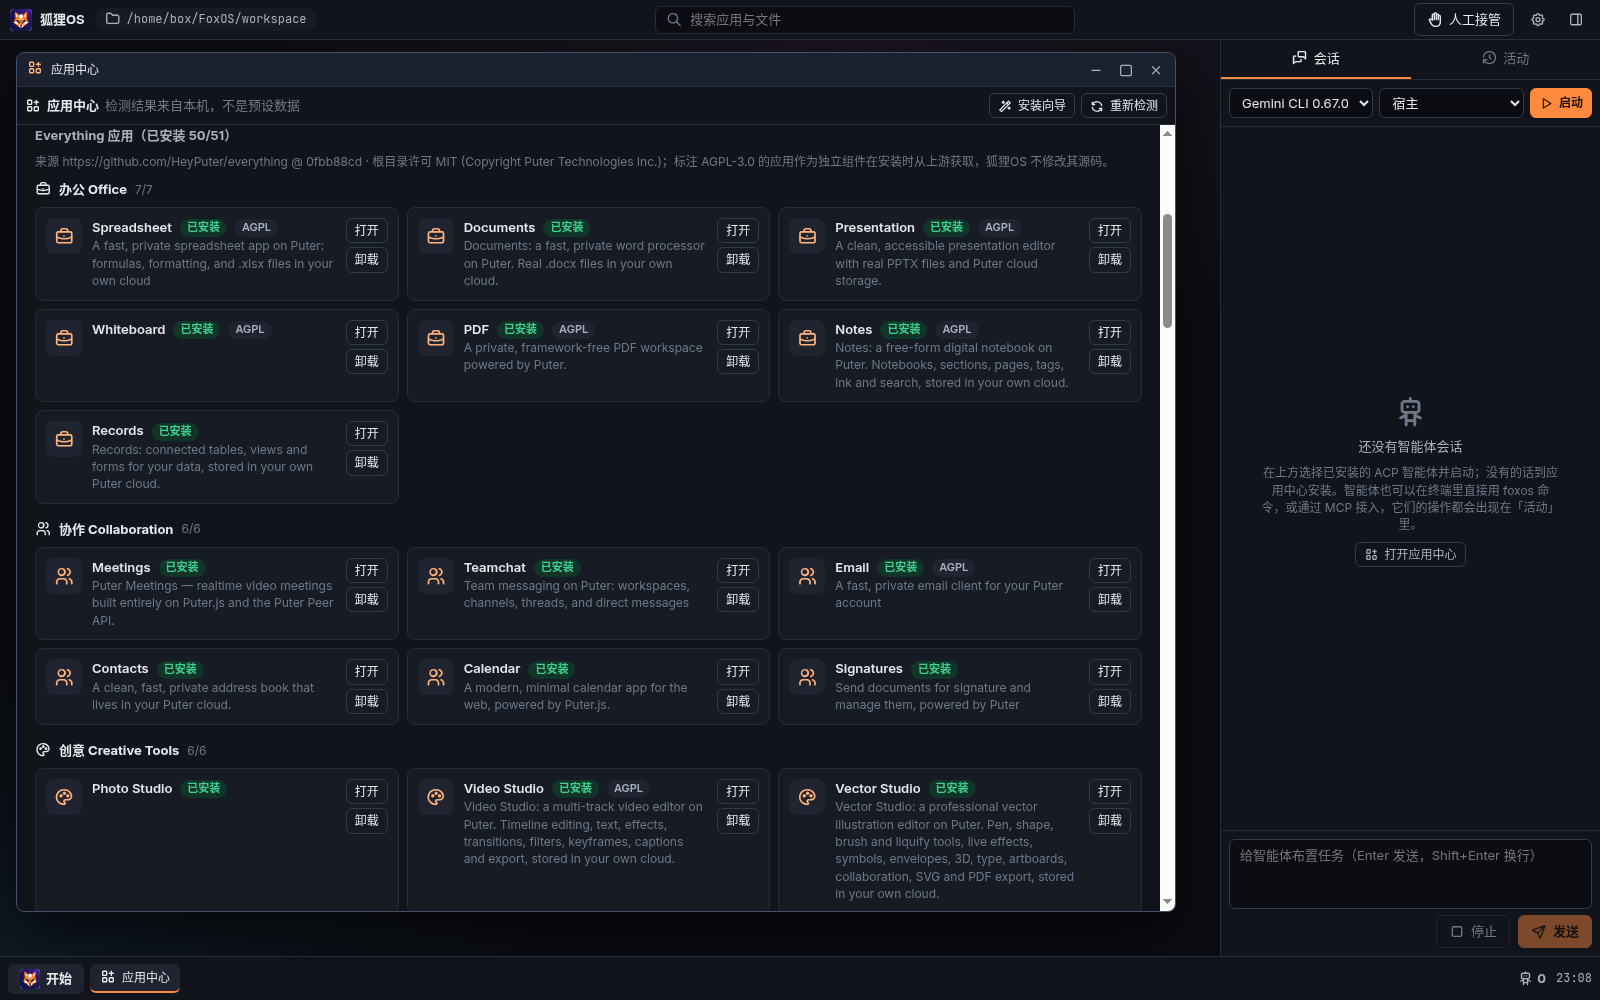
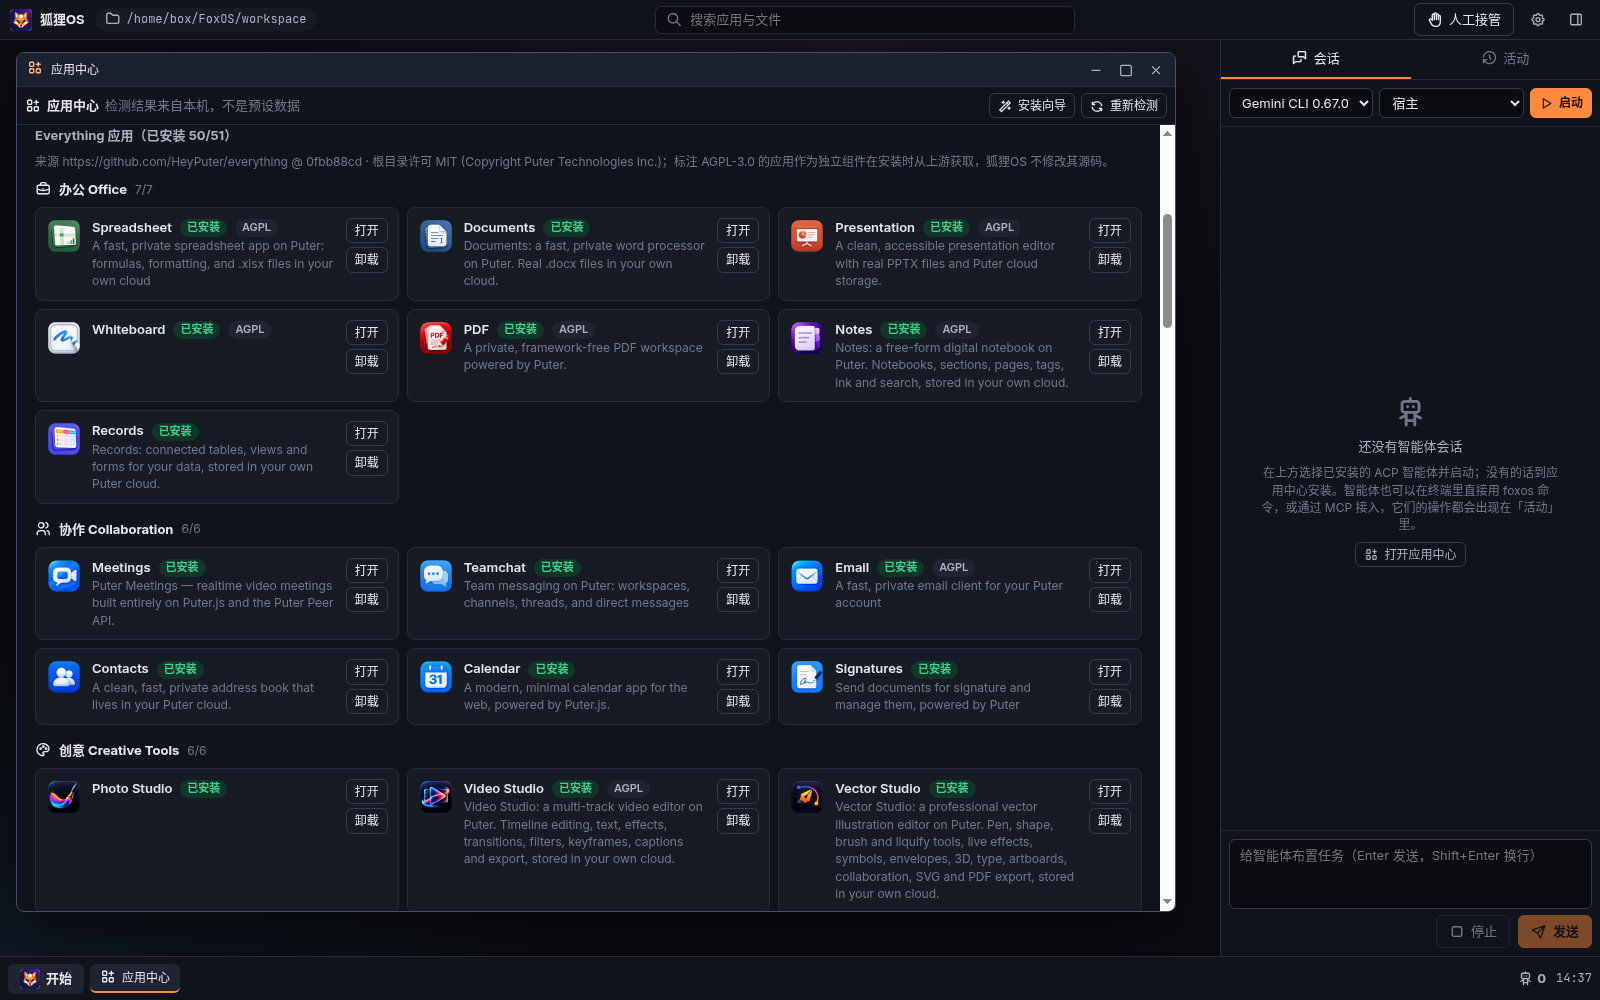
README：重拍桌面、开始菜单、应用中心截图（程序自带图标），新增程序图标说明；测试报告加入 US-53 图标覆盖

diff --git a/apps/desktop/scripts/screenshots.js b/apps/desktop/scripts/screenshots.js
@@ -46,14 +46,21 @@ async function main() {
   // 整个 X 屏幕（LibreOffice 原生窗口在 Electron 之外）
   const grab = (f) => { execFileSync('ffmpeg', ['-loglevel', 'error', '-y', '-f', 'x11grab', '-video_size', `${W}x${H}`, '-i', `${process.env.DISPLAY || ':99'}+0,0`, '-frames:v', '1', f]); return f; };
 
-  await shot('desktop', '桌面：开始菜单按 9 个分组列出已安装的 Everything 应用，右侧是智能体会话面板', async () => {
-    await page.click('#start'); await sleep(800);
+  // 等所有程序图标（<img>）加载完成
+  const iconsReady = () => page.waitForFunction(() => [...document.querySelectorAll('img.app-img')].every((i) => i.complete), null, { timeout: 30000 }).then(() => sleep(300));
+  await shot('desktop', '桌面：桌面快捷方式、窗口标题栏与任务栏显示各程序自带的图标（LibreOffice、系统终端、Code - OSS、Electron、Everything 上游图标），右侧是智能体会话面板', async () => {
+    await open('everything', { app: 'chess' }, { x: 190, y: 20, w: 720, h: 620 });
+    await open('everything', { app: 'documents' }, { x: 560, y: 150, w: 640, h: 600 });
+    await sleep(4000); await iconsReady();
   });
-  await shot('app-center', '应用中心：内置应用、LibreOffice、开发工具、ACP 智能体与 51 个 Everything 应用（9 个分组）', async () => {
+  await shot('start-menu', '开始菜单：内置程序与按 9 个分组列出的已安装 Everything 应用，每个程序显示其开源项目自带的图标', async () => {
+    await page.click('#start'); await sleep(800); await iconsReady();
+  });
+  await shot('app-center', '应用中心：51 个 Everything 应用（9 个分组）显示各自上游自带的图标；另有内置应用、LibreOffice、开发工具与 ACP 智能体', async () => {
     await open('appcenter', {}, { ...big, w: 1160 });
     await page.waitForSelector('.ev-group[data-group=games]', { timeout: 60000 });
     await page.evaluate(() => document.querySelector('.ev-section').scrollIntoView());
-    await sleep(600);
+    await sleep(600); await iconsReady();
   });
   await shot('setup-wizard', '首次运行安装向导：检测并在线安装 LibreOffice、Python 办公库、Node.js、git、环境与 Everything 分组', async () => {
     await open('setup', {}, { x: 180, y: 30, w: 900, h: 820 });

diff --git a/apps/desktop/e2e/icons.e2e.js b/apps/desktop/e2e/icons.e2e.js
@@ -8,7 +8,7 @@ const path = require('node:path');
 const { ROOT, launch, shot, tmpWorkspace } = require('./helpers');
 
 const FOXOS_HOME = process.env.FOXOS_TEST_HOME || process.env.FOXOS_HOME || fs.mkdtempSync('/tmp/foxos-e2e-home-');
-const OUT = path.join(ROOT, 'build', 'test-results', 'icons.json');
+const OUT = path.join(ROOT, 'docs', 'test-results', 'icons.json');
 
 // 等页面里所有 <img> 加载完成或失败（失败的会被替换成字体图标）
 const settle = (page, sel) => page.waitForFunction((s) => [...document.querySelectorAll(`${s} img.app-img`)].every((i) => i.complete), sel, { timeout: 30000 });
@@ -84,7 +84,7 @@ test('US-53 每个程序使用其开源项目自带的图标', async () => {
 
     const result = {
       everything: { total: 51, rendered: ev.filter((t) => t.ok).length, missing: evMissing, sources: report.everything.reduce((m, r) => { m[r.source || 'none'] = (m[r.source || 'none'] || 0) + 1; return m; }, {}) },
-      builtins: report.builtins.map((b) => ({ id: b.id, source: b.source, file: b.file, rendered: !!(desk.find((t) => t.key === b.id) || {}).ok })),
+      builtins: report.builtins.map((b) => ({ id: b.id, source: b.source, file: b.file && path.relative(ROOT, b.file).startsWith('..') ? b.file : b.file && path.relative(ROOT, b.file), rendered: !!(desk.find((t) => t.key === b.id) || {}).ok })),
       agents: { total: agentRows.length, withRegistryIcon: agents.filter((a) => a.icon).length, rendered: agentRows.filter((t) => t.ok).length, missing: agentRows.filter((t) => !t.ok).map((t) => t.key) },
       foxosOwn: own,
     };

diff --git a/scripts/gen_test_report.py b/scripts/gen_test_report.py
@@ -174,6 +174,15 @@ def main() -> int:
                  f"{('`' + x['cli'] + '`') if x['cli'] else '—'} | {x['ops']} | {x['bound']} | {x['executed']} | {'通过' if x['mcp'] else '—'} | "
                  f"{(x['note'] or '').replace('|', '/')[:160]} |")
     L.append("")
+    icons = load(TR / "icons.json", {})
+    if icons:
+        e, b, g = icons["everything"], icons["builtins"], icons["agents"]
+        SRC = {"installed": "已安装的上游组件", "bundled-mit": "随附（MIT）", "libreoffice": "本机 LibreOffice", "system-terminal": "系统终端", "vscode": "本机 VS Code", "code-oss": "Code - OSS（随附，MIT）", "electron": "Electron（随附）", None: "缺失，退回字体图标"}
+        L.append("## 程序图标覆盖（US-53）\n")
+        L.append(f"- Everything 应用：**{e['rendered']}/{e['total']}** 显示上游自带图标（来源：" + "，".join(f"{SRC.get(k if k != 'none' else None, k)} {v}" for k, v in e["sources"].items()) + f"）；缺失：{', '.join(e['missing']) or '无'}（AGPL 应用未安装时没有图标，安装后从上游组件读取）。")
+        L.append(f"- 内置程序：**{sum(1 for x in b if x['rendered'])}/{len(b)}** —— " + "，".join(f"{x['id']}：{SRC.get(x['source'], x['source'])}" for x in b) + "。")
+        L.append(f"- ACP 智能体：**{g['rendered']}/{g['total']}** 显示注册表 `icon`（{g['withRegistryIcon']} 个在注册表里有 icon）" + (f"；未加载：{', '.join(g['missing'])}" if g["missing"] else "") + "。")
+        L.append(f"- 狐狸OS 自己的程序保留狐狸OS 风格图标：{', '.join(icons.get('foxosOwn', []))}。\n")
     L.append("## 复现\n")
     L.append("```bash\npython3 -m venv .venv && .venv/bin/pip install -e 'packages/core[test]'\n(cd apps/desktop && npm ci)\n"
              "FOXOS_HOME=~/.local/share/FoxOS npm run test:all          # 全部\npython3 scripts/test_all.py --only e2e --e2e mcp,sandbox  # 只跑部分\n```\n")

diff --git a/README.md b/README.md
@@ -12,7 +12,7 @@
   <a href="README.en.md">English</a>
 </p>
 
-![狐狸OS 桌面](docs/screenshots/desktop.png)
+![狐狸OS 桌面：快捷方式、标题栏与任务栏显示各程序自带的图标](docs/screenshots/desktop.png)
 
 ## 狐狸OS 是什么
 
@@ -31,9 +31,10 @@
 
 | | |
 | --- | --- |
-| ![应用中心](docs/screenshots/app-center.png)<br>**应用中心**：内置应用、LibreOffice、开发工具、ACP 智能体与 51 个 Everything 应用（9 个分组） | ![安装向导](docs/screenshots/setup-wizard.png)<br>**首次运行安装向导**：检测并在线安装 LibreOffice、Python 办公库、Node.js、git、环境与 Everything 分组 |
-| ![终端](docs/screenshots/terminal.png)<br>**终端**：真实 PTY；`foxos` 命令直接读写工作空间里的表格、文档和环境 | ![文件管理器](docs/screenshots/files.png)<br>**文件管理器**：工作空间实时同步，CLI、MCP、智能体的修改立即出现 |
-| ![编辑器](docs/screenshots/editor.png)<br>**Monaco 编辑器**：语法高亮，保存到工作空间 | ![浏览器](docs/screenshots/browser.png)<br>**浏览器**：内置网页浏览器 |
+| ![开始菜单](docs/screenshots/start-menu.png)<br>**开始菜单**：内置程序与按 9 个分组列出的已安装 Everything 应用，每个程序显示其开源项目自带的图标 | ![应用中心](docs/screenshots/app-center.png)<br>**应用中心**：51 个 Everything 应用显示各自上游的图标；另有内置应用、LibreOffice、开发工具与 ACP 智能体 |
+| ![安装向导](docs/screenshots/setup-wizard.png)<br>**首次运行安装向导**：检测并在线安装 LibreOffice、Python 办公库、Node.js、git、环境与 Everything 分组 | ![终端](docs/screenshots/terminal.png)<br>**终端**：真实 PTY；`foxos` 命令直接读写工作空间里的表格、文档和环境 |
+| ![文件管理器](docs/screenshots/files.png)<br>**文件管理器**：工作空间实时同步，CLI、MCP、智能体的修改立即出现 | ![编辑器](docs/screenshots/editor.png)<br>**Monaco 编辑器**：语法高亮，保存到工作空间 |
+| ![浏览器](docs/screenshots/browser.png)<br>**浏览器**：内置网页浏览器 | |
 | ![LibreOffice Writer](docs/screenshots/libreoffice-writer.png)<br>**LibreOffice Writer**：打开由 `foxos docs` 生成的周报 .docx | ![LibreOffice Calc](docs/screenshots/libreoffice-calc.png)<br>**LibreOffice Calc**：`foxos sheets` 写入的公式与原生图表 |
 | ![Everything 表格](docs/screenshots/everything-spreadsheet.png)<br>**Everything · 表格**：打开工作空间里的 `2026年销售.xlsx` | ![Everything 文档](docs/screenshots/everything-documents.png)<br>**Everything · 文档**：打开 `项目周报.docx` |
 | ![Everything 白板](docs/screenshots/everything-whiteboard.png)<br>**Everything · 白板** | ![Everything CRM](docs/screenshots/everything-crm.png)<br>**Everything · CRM** |
@@ -45,7 +46,8 @@
 
 | 领域 | 内容 |
 | --- | --- |
-| 桌面 | 窗口管理（拖动、缩放、最大化、任务栏）、开始菜单、全局搜索（应用 + 工作空间文件）、会话恢复、线性图标（无 emoji） |
+| 桌面 | 窗口管理（拖动、缩放、最大化、任务栏）、开始菜单、全局搜索（应用 + 工作空间文件）、会话恢复；无 emoji |
+| 程序图标 | 每个程序显示它自己的开源项目自带的图标：Everything 应用用上游 `icon-128.png`（MIT 应用随附，AGPL 应用安装后从上游组件读取）、LibreOffice 用本机安装的图标、终端用系统终端图标、编辑器用 VS Code / Code - OSS 图标、浏览器用 Electron 图标、ACP 智能体用注册表 `icon` 字段；狐狸OS 自己的程序（文件、设置、环境、应用中心）保留狐狸OS 风格；线性字体图标只用于按钮等控件。来源与许可见 [third-party-icons/NOTICE.md](apps/desktop/src/third-party-icons/NOTICE.md) |
 | 内置应用 | 终端（node-pty / ConPTY）、文件管理器、Monaco 编辑器、浏览器、应用中心、设置、安装向导、环境 |
 | 办公 | `foxos sheets` / `docs` / `slides` 读写标准 .xlsx / .docx / .pptx（公式、原生图表、表格、备注），LibreOffice 原生窗口打开、求值与导出 |
 | Everything 应用 | 51 个开源应用（9 个分组），本机构建运行；每个应用有从界面实际遍历出的语义命令（`foxos <应用> <资源> <动作>`），见 [docs/everything-apps.md](docs/everything-apps.md) 与 [docs/operations/](docs/operations/) |
@@ -186,7 +188,7 @@ npm run test:all      # 仓库根目录：pytest + 桌面端到端测试（Playw
 ```
 
 - 测试不使用模拟：真实文件、真实 LibreOffice、真实 Electron、真实环境运行时、官方 MCP SDK 客户端
-- 最近一次全量运行（Linux）：139 个用例 133 通过、1 失败、4 跳过、1 个已知上游缺陷；31 个用户故事 28 通过；Everything 应用 50/51 本地启动、48/51 界面与 CLI 等价、51/51 MCP 调用成功。详见 [测试报告](docs/test-report.md)
+- 最近一次报告（Linux）：140 个用例 134 通过、1 失败、4 跳过、1 个已知上游缺陷；32 个用户故事 29 通过；Everything 应用 50/51 本地启动、49/51 界面与 CLI 等价、51/51 MCP 调用成功；程序图标 Everything 51/51、内置程序 6/6、ACP 智能体 45/45。详见 [测试报告](docs/test-report.md)
 - 用户故事与测试一一对应（US-编号），报告列出每个故事的通过 / 失败 / 跳过、51 个应用的覆盖与每个应用的操作覆盖：[docs/test-report.md](docs/test-report.md)
 - Windows 专用测试：命令行契约单元测试在 Linux 上运行；实机测试见 [docs/windows-test-guide.md](docs/windows-test-guide.md)
 

diff --git a/docs/test-report.md b/docs/test-report.md
@@ -2,7 +2,7 @@
 
 由 `npm run test:all`（[scripts/test_all.py](../scripts/test_all.py)）生成，不使用模拟：pytest 调用真实 CLI / 内核，桌面端到端测试用 Playwright 驱动真实的 Electron 桌面，MCP 测试使用官方 MCP SDK 作为客户端。
 
-- 时间：2026-11-11 00:44（UTC+8）　提交：`b38474c`　用时：15 分 10 秒
+- 时间：2026-11-11 14:39（UTC+8）　提交：`f40a775`
 - 环境：Linux 6.12.113+（x86_64），Python 3.13.5，Node v24.22.1，Landlock ABI 6
 - 未覆盖：Windows 与 macOS 实机（本报告在 Linux 上生成；Windows 代码路径另有 wine 下的测试，见 [sandbox.md](sandbox.md)、[windows-test-guide.md](windows-test-guide.md)）
 
@@ -10,10 +10,10 @@
 
 | | 通过 | 失败 | 跳过 | 已知上游缺陷 |
 | --- | --- | --- | --- | --- |
-| 测试用例（139） | 133 | 1 | 4 | 1 |
-| 用户故事（31） | 28 | 1 | 1 | 1 |
+| 测试用例（140） | 134 | 1 | 4 | 1 |
+| 用户故事（32） | 29 | 1 | 1 | 1 |
 
-- Everything 应用：**50/51** 在桌面里本地启动，**48/51** 通过“界面操作与 CLI 等价”检查，**51/51** 通过 MCP（官方 SDK）调用成功；1 个失败，1 个跳过，1 个为已知上游缺陷。
+- Everything 应用：**50/51** 在桌面里本地启动，**49/51** 通过“界面操作与 CLI 等价”检查，**51/51** 通过 MCP（官方 SDK）调用成功；1 个失败，1 个跳过，1 个为已知上游缺陷。
 - 操作清单：51 个应用共 **3350** 项操作，其中 **3350** 项有 CLI / MCP 绑定；测试中实际执行并比对结果的有 **50** 项（每个应用一项等价检查）。
 - MCP：stdio 列出 4320 个工具（62 个应用），逐应用调用 63/63 成功；Streamable HTTP（compact）69 个工具；SDK 1.32.2。
 
@@ -52,6 +52,7 @@
 | US-48 | Everything 游戏类应用 | 通过 | 5 | 0 | 0 |
 | US-50 | 安装系统：目录与一键安装（Linux 宿主上真实安装 Alpine） | 通过 | 1 | 0 | 0 |
 | US-52 | 轻量隔离：Landlock + seccomp 真实限制；智能体在轻量沙箱中运行；Seatbelt / Windows 策略生成 | 通过 | 14 | 0 | 1 |
+| US-53 | 程序图标：每个程序显示其开源项目自带的图标（Everything 上游 / LibreOffice / 系统终端 / Code - OSS / Electron / ACP 注册表），缺失时退回并报告 | 通过 | 1 | 0 | 0 |
 
 ### 失败、跳过与已知缺陷的用例
 
@@ -93,7 +94,7 @@
 | Parametric (`parametric`) | 工程 | 通过 | 一致 | `foxos parametric insert create` | 33 | 33 | 1 | 通过 |  |
 | Circuits (`circuits`) | 工程 | 通过 | 一致 | `foxos circuits project create` | 39 | 39 | 1 | 通过 |  |
 | Building Design (`building-design`) | 工程 | 通过 | 一致 | `foxos building-design it dismiss` | 1 | 1 | 1 | 通过 |  |
-| Tasks (`tasks`) | 效率 | 通过 | 不一致 | `foxos tasks first-task create` | 58 | 58 | 1 | 通过 | {"onlyGui":[],"onlyCli":["combobox/List/<id>/"],"kvEqual":true} |
+| Tasks (`tasks`) | 效率 | 通过 | 一致 | `foxos tasks first-task create` | 58 | 58 | 1 | 通过 |  |
 | Projects (`projects`) | 效率 | 通过 | 一致 | `foxos projects first-project create` | 50 | 50 | 1 | 通过 |  |
 | Wiki (`wiki`) | 效率 | 通过 | 一致 | `foxos wiki getting-started set foxos parity` | 60 | 60 | 1 | 通过 |  |
 | Time Tracking (`time-tracking`) | 效率 | 通过 | 一致 | `foxos time-tracking set-up-tracking activate` | 71 | 71 | 1 | 通过 |  |
@@ -121,6 +122,13 @@
 | Checkers (`checkers`) | 游戏 | 通过 | 一致 | `foxos checkers game create` | 21 | 21 | 1 | 通过 |  |
 | Solitaire (`solitaire`) | 游戏 | 通过 | 一致 | `foxos solitaire powered-by-puter show` | 9 | 9 | 1 | 通过 |  |
 | Sudoku (`sudoku`) | 游戏 | 通过 | 一致 | `foxos sudoku puzzle create` | 39 | 39 | 1 | 通过 |  |
+
+## 程序图标覆盖（US-53）
+
+- Everything 应用：**51/51** 显示上游自带图标（来源：已安装的上游组件 50，随附（MIT） 1）；缺失：无（AGPL 应用未安装时没有图标，安装后从上游组件读取）。
+- 内置程序：**6/6** —— writer：本机 LibreOffice，calc：本机 LibreOffice，impress：本机 LibreOffice，terminal：系统终端，editor：Code - OSS（随附，MIT），browser：Electron（随附）。
+- ACP 智能体：**45/45** 显示注册表 `icon`（45 个在注册表里有 icon）。
+- 狐狸OS 自己的程序保留狐狸OS 风格图标：files, environments, appcenter, settings。
 
 ## 复现
 

diff --git a/README.en.md b/README.en.md
@@ -15,6 +15,7 @@ FoxOS is a desktop program for Windows and Linux (macOS planned) that gives agen
 - **Real apps**: terminal (real PTY), file manager, Monaco editor, browser, native LibreOffice windows, and the 51 open-source Everything apps.
 - **One operation, three entry points**: GUI, `foxos <app> <resource> <verb> --json`, and MCP tools (stdio and Streamable HTTP) all call the same kernel command.
 - **Traceable and interruptible**: every call goes to a JSONL audit log; single-writer file locks; one-click human takeover pauses all agent writes.
+- **Programs keep their own icons**: Everything apps show their upstream `icon-128.png` (MIT icons bundled, AGPL icons read from the installed upstream component), LibreOffice icons come from the local LibreOffice install, the terminal uses the system terminal icon, the editor VS Code / Code - OSS, the browser Electron, ACP agents the registry `icon`. FoxOS's own apps keep the FoxOS style; font icons are only for controls. See [NOTICE](apps/desktop/src/third-party-icons/NOTICE.md).
 - **Own isolation layer**: no Docker or VM software. Linux namespaces on Linux; one-click WSL2 distros, Windows Sandbox and Hyper-V on Windows.
 
 ## Screenshots
@@ -23,9 +24,10 @@ Captured from the running desktop (xvfb, 1600×1000) with real files created in 
 
 | | |
 | --- | --- |
-| ![App center](docs/screenshots/app-center.png)<br>App center: built-ins, LibreOffice, tools, ACP agents, 51 Everything apps in 9 groups | ![Setup wizard](docs/screenshots/setup-wizard.png)<br>First-run wizard with component picker |
-| ![Terminal](docs/screenshots/terminal.png)<br>Terminal running `foxos` commands | ![Files](docs/screenshots/files.png)<br>File manager, live-synced workspace |
-| ![Editor](docs/screenshots/editor.png)<br>Monaco editor | ![Browser](docs/screenshots/browser.png)<br>Browser |
+| ![Start menu](docs/screenshots/start-menu.png)<br>Start menu: built-ins and installed Everything apps in 9 groups, each with its project's own icon | ![App center](docs/screenshots/app-center.png)<br>App center: 51 Everything apps with their upstream icons, plus built-ins, LibreOffice, tools, ACP agents |
+| ![Setup wizard](docs/screenshots/setup-wizard.png)<br>First-run wizard with component picker | ![Terminal](docs/screenshots/terminal.png)<br>Terminal running `foxos` commands |
+| ![Files](docs/screenshots/files.png)<br>File manager, live-synced workspace | ![Editor](docs/screenshots/editor.png)<br>Monaco editor |
+| ![Browser](docs/screenshots/browser.png)<br>Browser | |
 | ![Writer](docs/screenshots/libreoffice-writer.png)<br>LibreOffice Writer with a generated .docx | ![Calc](docs/screenshots/libreoffice-calc.png)<br>LibreOffice Calc: formulas and a native chart |
 | ![Spreadsheet](docs/screenshots/everything-spreadsheet.png)<br>Everything Spreadsheet opening a workspace .xlsx | ![Documents](docs/screenshots/everything-documents.png)<br>Everything Documents opening a workspace .docx |
 | ![Whiteboard](docs/screenshots/everything-whiteboard.png)<br>Everything Whiteboard | ![CRM](docs/screenshots/everything-crm.png)<br>Everything CRM |
@@ -91,7 +93,7 @@ Desktop (Electron: window manager, built-in apps, Everything runtime, ACP client
 
 `npm run test:all` at the repo root runs pytest, the Playwright + Electron end-to-end tests under xvfb and the official-MCP-SDK tests, and writes [docs/test-report.md](docs/test-report.md) (pass/fail/skip per user story, per-app coverage). No mocks.
 
-Latest full run (Linux): 139 cases — 133 passed, 1 failed, 4 skipped, 1 known upstream defect; 28/31 user stories passed; Everything apps 50/51 boot locally, 48/51 GUI/CLI parity, 51/51 MCP calls succeed. See the [test report](docs/test-report.md).
+Latest report (Linux): 140 cases — 134 passed, 1 failed, 4 skipped, 1 known upstream defect; 29/32 user stories passed; Everything apps 50/51 boot locally, 49/51 GUI/CLI parity, 51/51 MCP calls succeed; program icons: Everything 51/51, built-ins 6/6, ACP agents 45/45. See the [test report](docs/test-report.md).
 
 ## Roadmap
 
